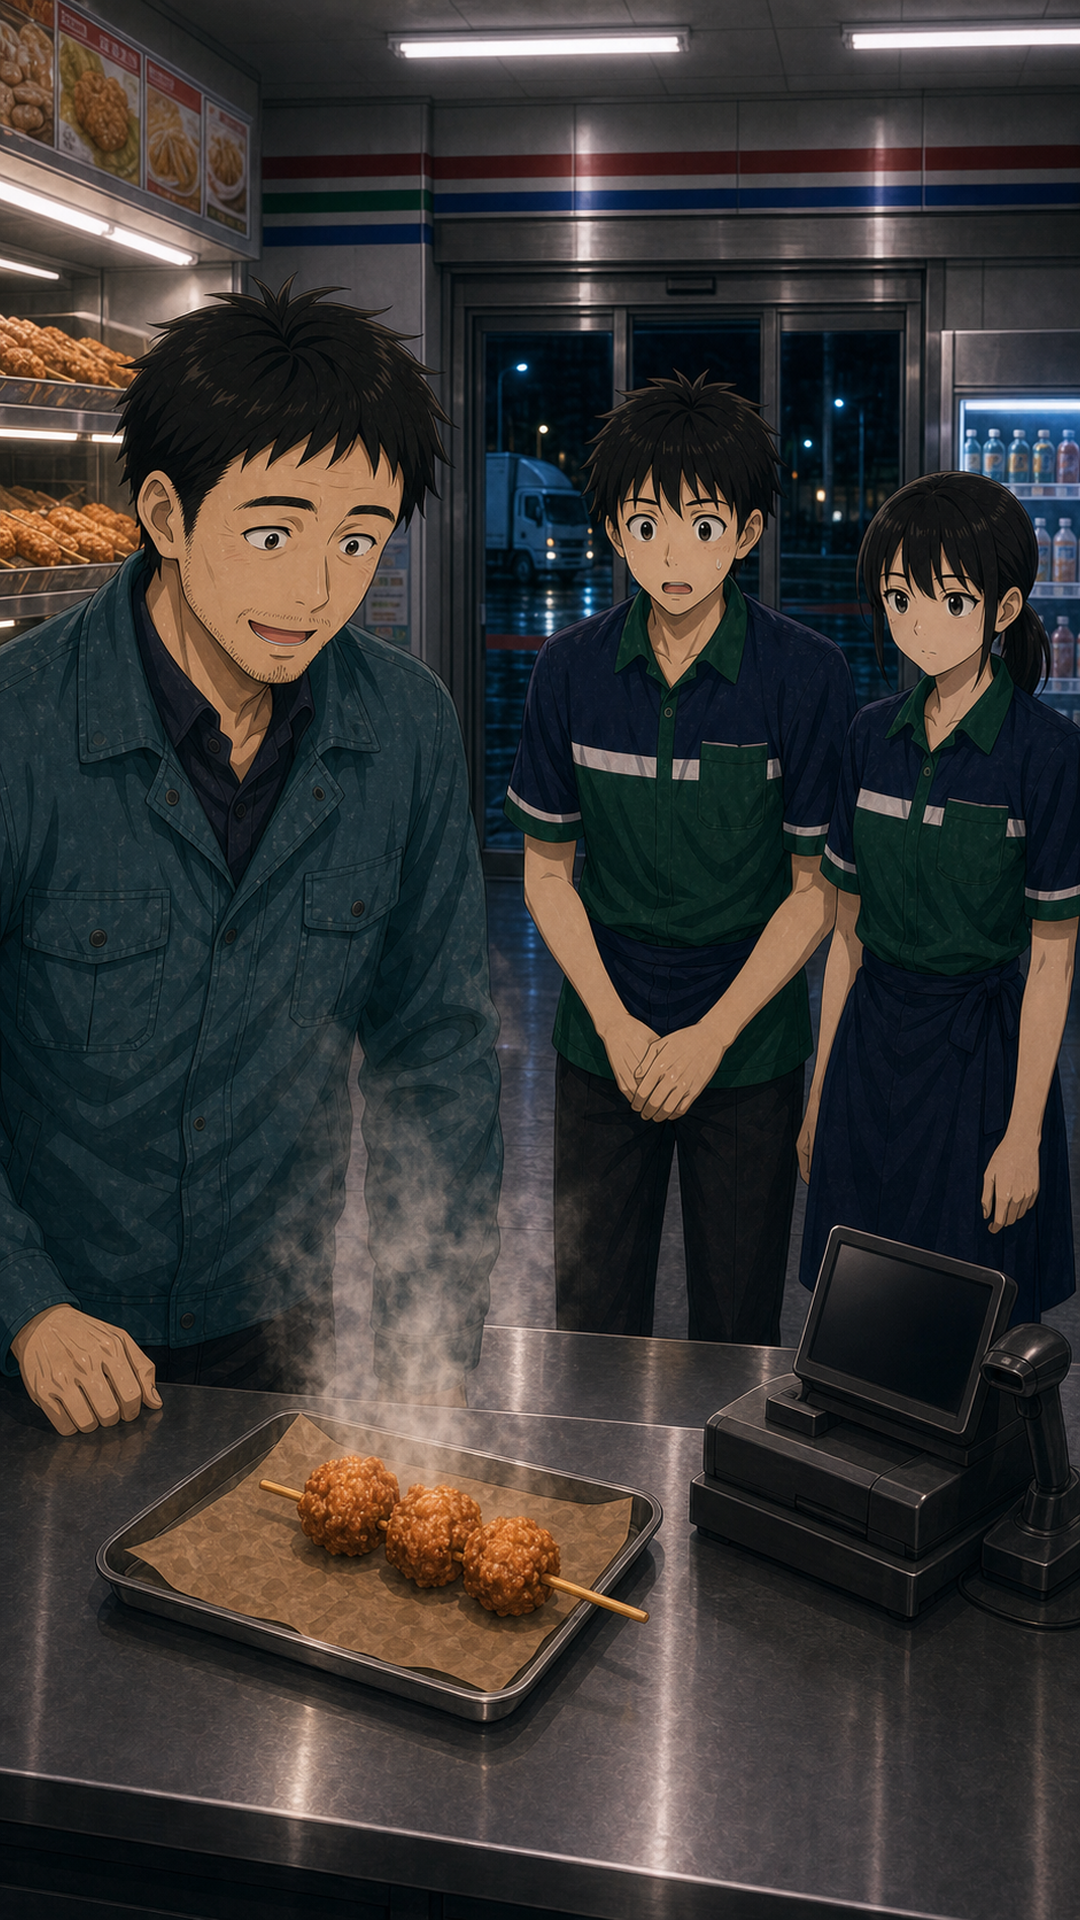
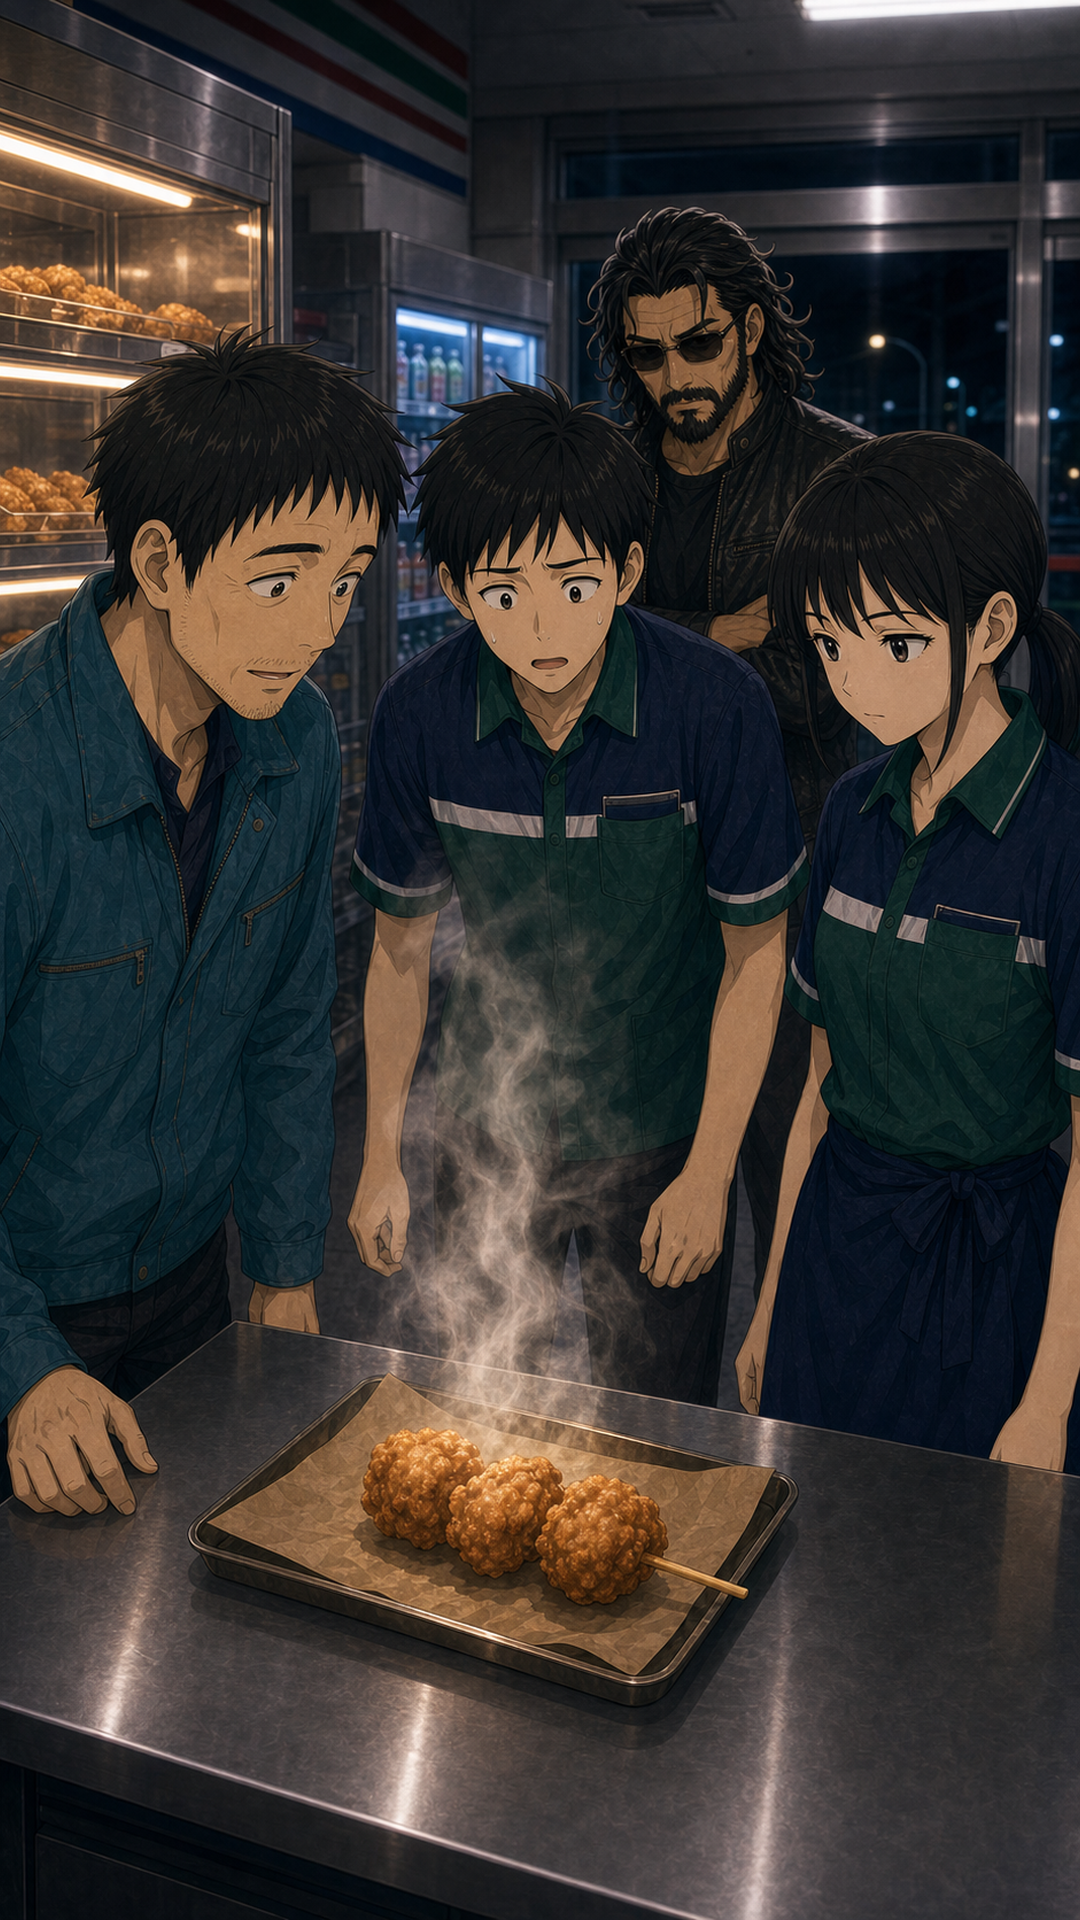
第4話終盤の唐揚げ数とレジ表示を修正

diff --git a/13th-register-kamishibai/assets/ep04_codex_image_prompts.md b/13th-register-kamishibai/assets/ep04_codex_image_prompts.md
@@ -161,3 +161,26 @@ vc07（ep04_vc07_v2.png）と同じ場面・同じ構図からの続き。参照
 - プロンプト:
 
 締めのナレーションカット。深夜のコンビニの日常に戻る、静かな店内の引き画。 9:16縦型ショート動画用。主要被写体は中央寄り、上端左右と下部30〜40%は字幕/UIセーフエリアとして重要情報を置かない。画像内に字幕、会話ウィンドウ、長文テキスト、実在ロゴ、ウォーターマークを描かない。現代日本の地方コンビニ、深夜、蛍光灯、2Dアニメイラスト、ビジュアルノベル風、セルルック、非写実。普通のコンビニ日常に小さな異常が混じるトーン。派手なSFホログラム、巨大装置、壁一面の機械、ロボットアームは禁止。
+## 2026-07-13 終盤レジ除去・唐揚げ個数固定 v2
+
+### vc12 2時28分・トラック運転手来店
+2時28分、トラック運転手が深夜のコンビニへ来店し、ホットスナックの唐揚げ棒を注文する場面。第十三レジは2時20分に消えているため絶対に描かない。通常POSやレジカウンターも描かず、入口側の構図にする。運転手は青緑のワークジャケットで固定。まだ唐揚げ棒は持っていない。
+
+### vc13 湯気がたくさん出て期待が高まる
+普通のコンビニ店内で、提供直後の唐揚げ棒から本物の湯気がたくさん立ち、トラック運転手が期待している場面。第十三レジも通常レジも描かない。唐揚げは提供直後なので、串に正確に3個。
+
+### vc14 ぬるくてがっかりする
+トラック運転手が最初の一口を食べ、ぬるくてがっかりしている場面。第十三レジも通常レジも描かない。唐揚げ棒は1個食べた後なので、串には正確に2個だけ残っている。
+
+### vc15 店内いっぱいのホログラム演出
+ぬるいと言われた後、店内いっぱいに炎のホログラム、黄金の湯気、肉汁、揚げ音の演出が広がる場面。第十三レジも通常レジも描かない。唐揚げ棒は1個食べた後なので実物は正確に2個だけ残っている。ホログラムは演出であり、実物の唐揚げ個数を増やさない。
+
+### vc16 温度がちょうど良くて喜ぶ
+トラック運転手が二口目を食べ、温度がちょうど良くて喜んでいる場面。第十三レジも通常レジも描かない。唐揚げ棒は二口目の後なので、串には正確に1個だけ残っている。2個や3個に戻さない。
+
+### vc17 普通レジからレシート自動印字
+第十三レジが消えた後、普通の低いPOSレジからレシートが勝手に印字される場面。タクミが驚いてレシートを見ている。第十三レジ、黒い背の高いセルフレジ、シアン顔、青LEDは絶対に描かない。レシートは普通POSの前面または下部のプリンタースロットから1本だけ出る。上からも下からも出さない。タクミは別の紙を持たない。
+
+### vc18 トラック運転手が喜んで帰る
+食べ終わったトラック運転手が、ごちそうさま、ありがとうという満足した表情でコンビニを出ていく場面。第十三レジも通常レジも描かない。運転手は唐揚げ棒を持っていない。もう食べ終わっている。
+
